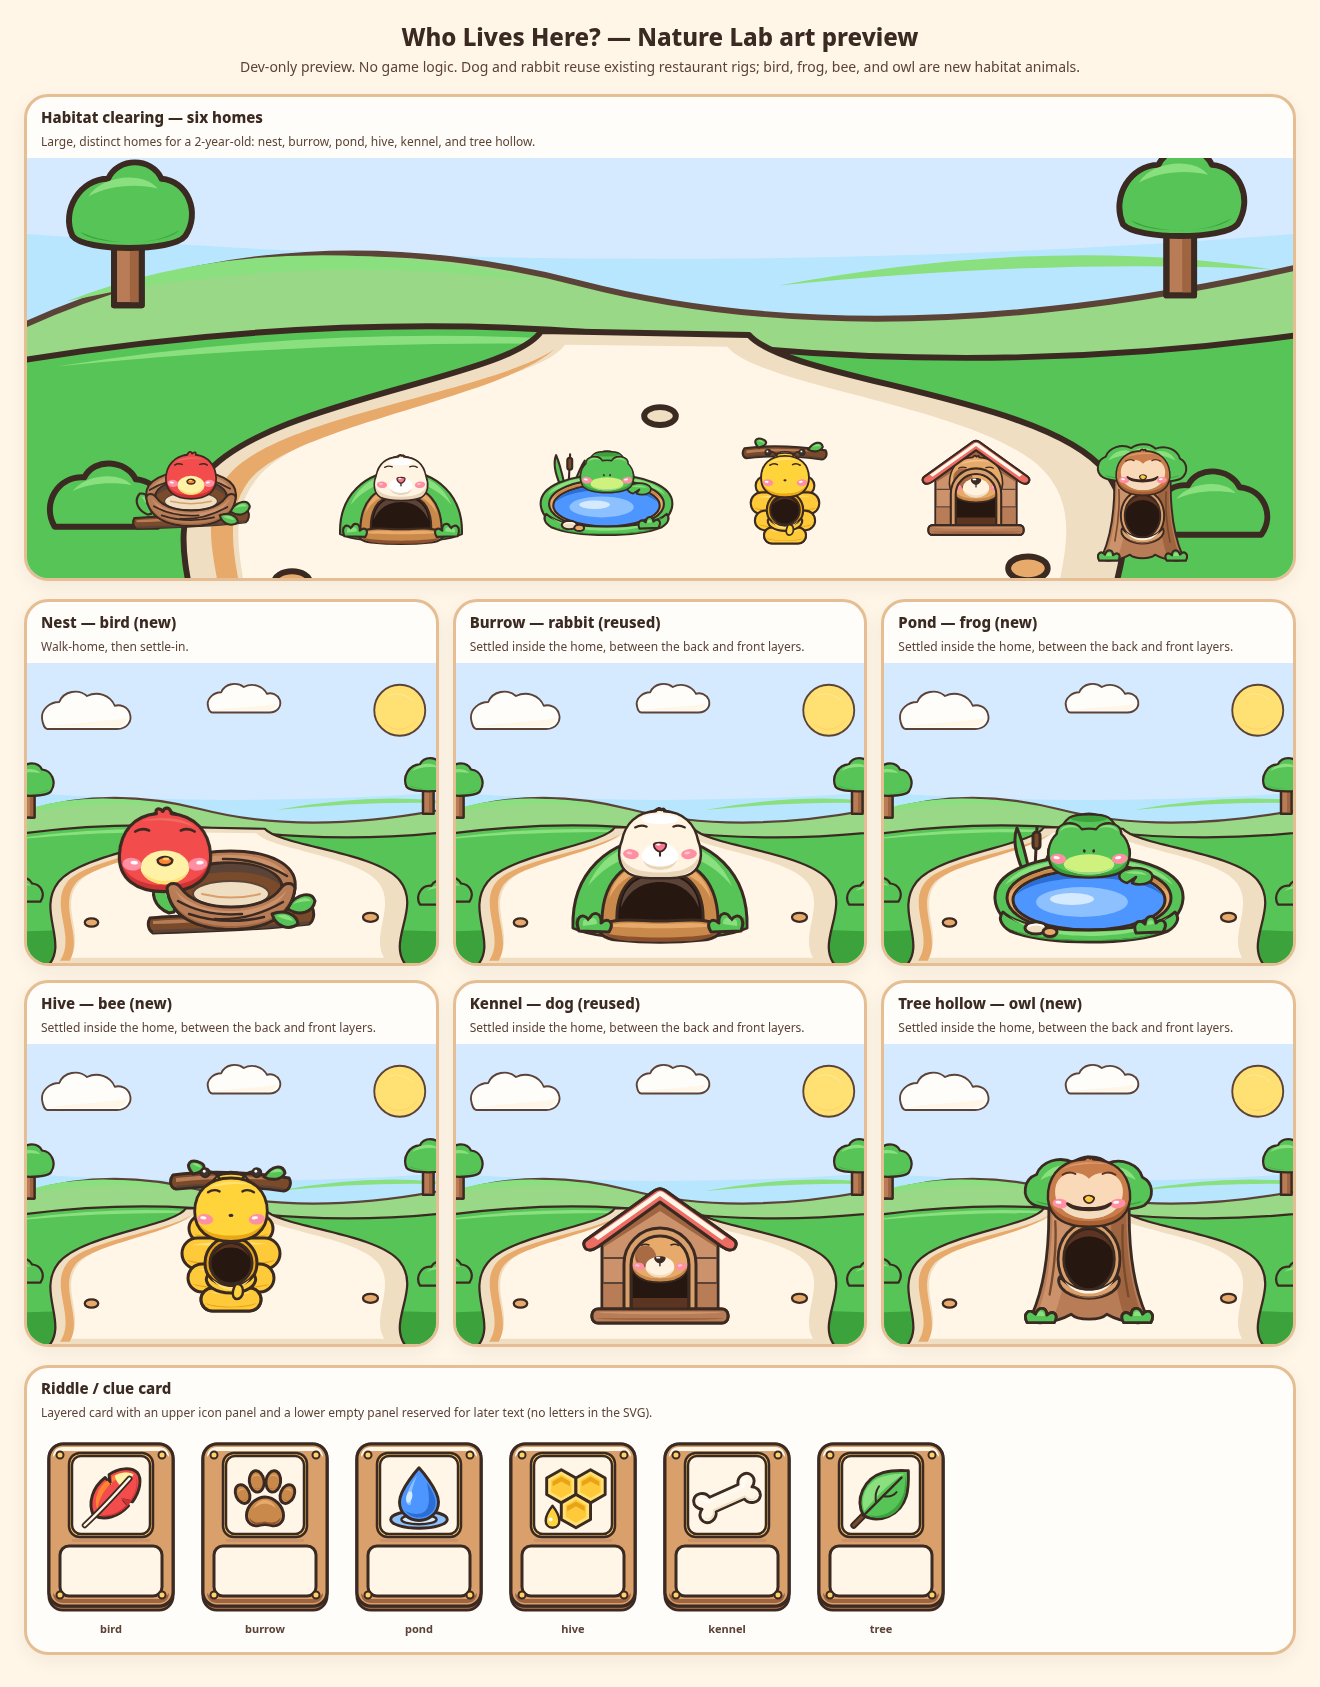
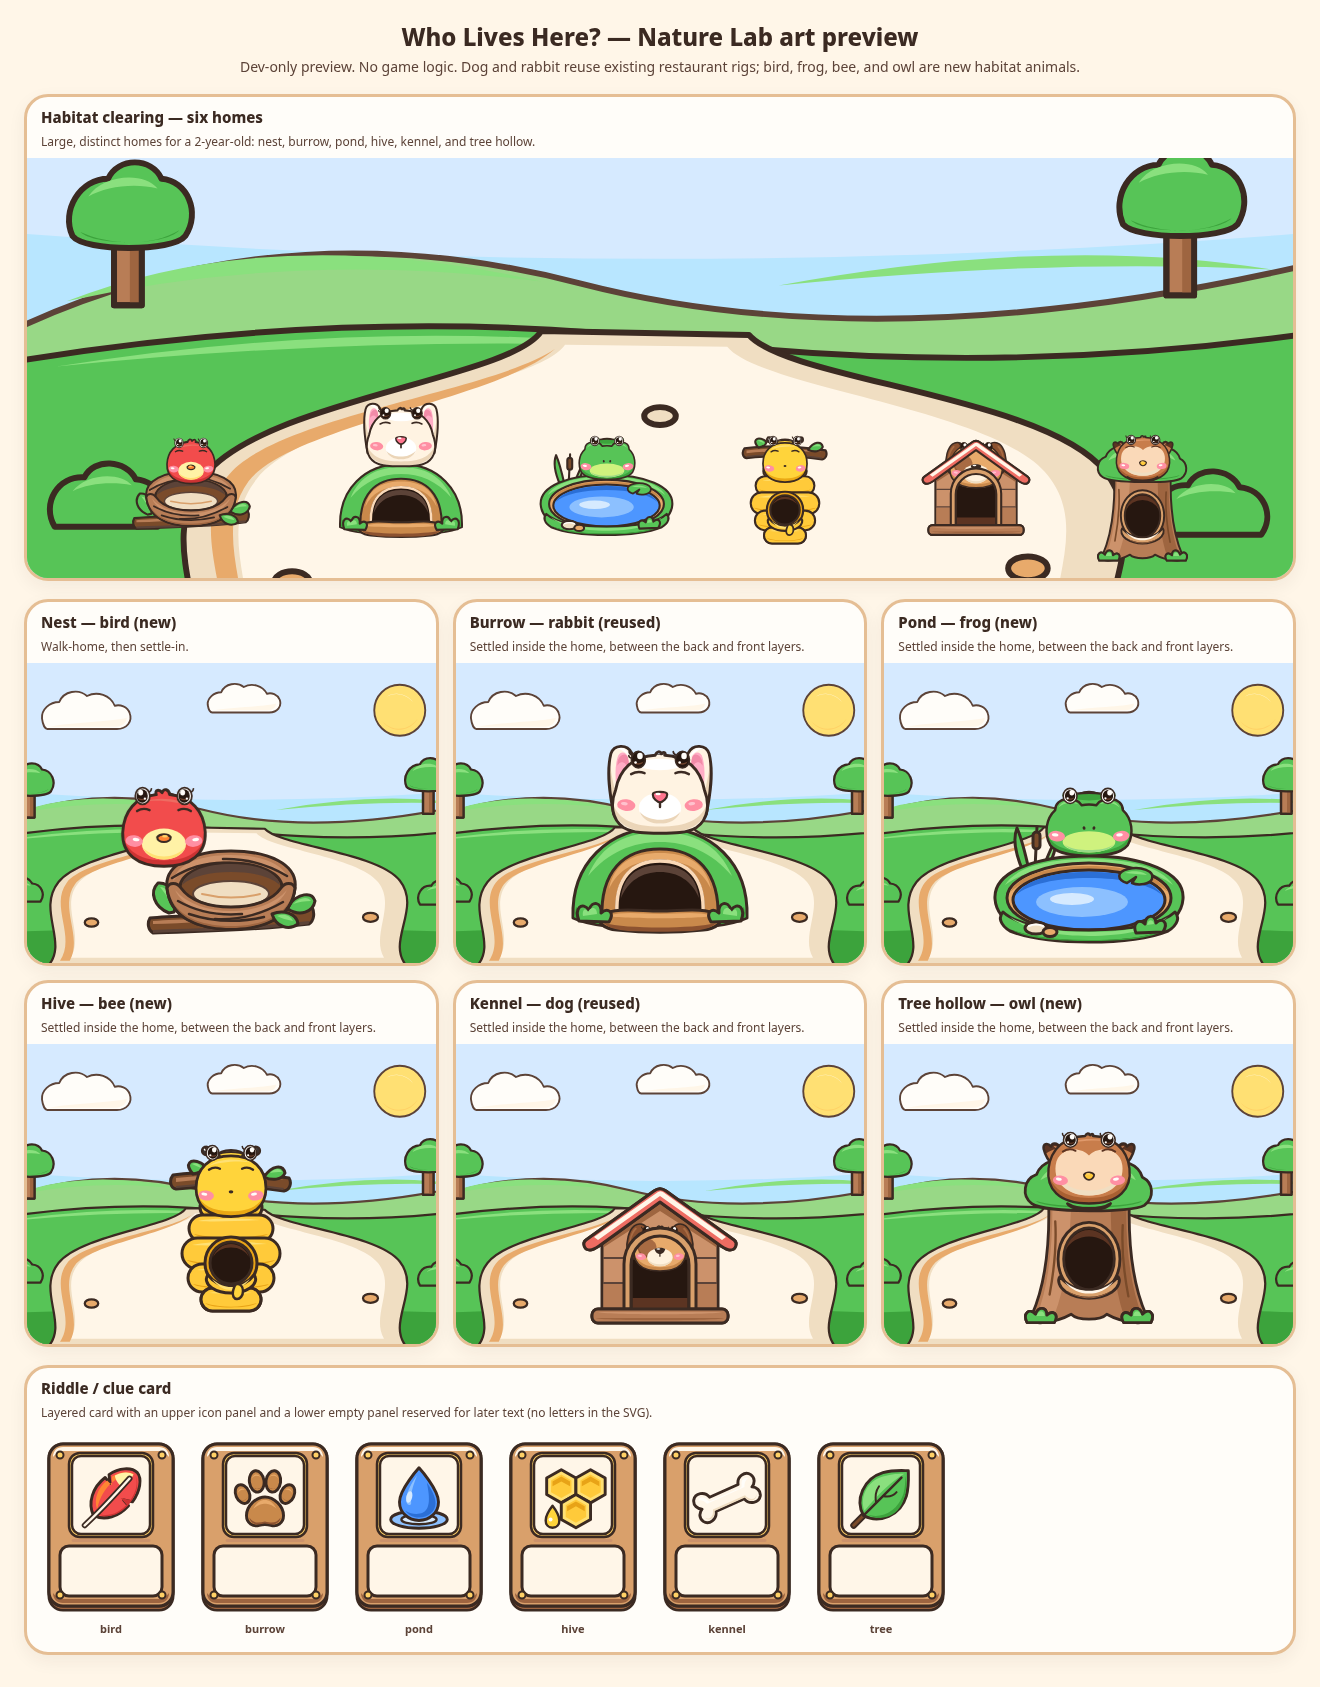
fix(art): make burrow rabbit recognizable and keep train passengers large
The homes preview now composites ear and eye layers, and the rabbit peeks
from the burrow with a pale opening lip for contrast. Picnic Train no longer
shrinks a 10-seat consist to fit; trainLayout.ts recommends a minimum
passenger height and a panning camera, and the preview uses a tablet-width
scrolling viewport.

diff --git a/tools/art-preview/train.html b/tools/art-preview/train.html
@@ -44,6 +44,26 @@
       70% { left: 48%; bottom: 28%; transform: scale(0.7) rotate(0); }
       100% { left: 48%; bottom: 22%; transform: scale(0.7); }
     }
+    /* 10-seat (and any long consist): pan at tap-friendly scale, do not shrink. Mirrors src/anim/trainLayout.ts */
+    /* Tablet-portrait-width viewport so the long consist must pan (mirrors planTrainView). */
+    .stage-pan { height: 400px; width: 100%; max-width: 760px; margin-inline: auto; }
+    .pan-viewport {
+      position: absolute;
+      inset: 0;
+      overflow-x: auto;
+      overflow-y: hidden;
+      -webkit-overflow-scrolling: touch;
+    }
+    .pan-world { position: relative; height: 100%; }
+    .pan-world img.bg {
+      position: absolute; inset: 0; width: 100%; height: 100%;
+      object-fit: cover; object-position: center 72%;
+    }
+    .pan-viewport .train { left: 16px; }
+    .edge-fade {
+      position: absolute; top: 0; bottom: 18px; width: 56px; z-index: 8; pointer-events: none;
+    }
+    .edge-fade.right { right: 0; background: linear-gradient(to right, transparent, #FFF6E8); }
     .strip { display: flex; flex-wrap: wrap; gap: 12px; padding: 8px 14px 16px; align-items: flex-end; background: #FFF6E8; }
     .swatch { text-align: center; width: 100px; }
     .swatch img { width: 96px; height: 80px; object-fit: contain; display: block; margin: 0 auto; }
@@ -61,17 +81,15 @@
       <div class="note">Two 2-seat cars plus a 1-seat car. One seat shows a “how many missing?” outline; an apple is being handed out.</div>
       <div class="stage tall state-chug" id="scene-five"></div>
     </div>
-    <div class="row">
-      <div class="card">
-        <div class="label">Two seats (age 2)</div>
-        <div class="note">Engine + one 2-seat car. The train arrives from the right.</div>
-        <div class="stage state-arrive" id="scene-two"></div>
-      </div>
-      <div class="card">
-        <div class="label">Ten seats (composed)</div>
-        <div class="note">Engine + four 2-seat cars + one 1-seat car. Outlines mark empty seats.</div>
-        <div class="stage" id="scene-ten"></div>
-      </div>
+    <div class="card">
+      <div class="label">Two seats (age 2)</div>
+      <div class="note">Engine + one 2-seat car. The train arrives from the right.</div>
+      <div class="stage state-arrive" id="scene-two"></div>
+    </div>
+    <div class="card">
+      <div class="label">Ten seats — panning view at tap-friendly scale</div>
+      <div class="note">The consist is not shrunk to fit. This card uses a 760px tablet-portrait viewport: passengers stay as large as in the five-seat scene, and the rest of the train is reached by panning (layout helper: src/anim/trainLayout.ts). Scroll sideways to see the remaining cars.</div>
+      <div class="stage stage-pan" id="scene-ten"></div>
     </div>
     <div class="card">
       <div class="label">Modular pieces and helper outlines</div>
@@ -176,10 +194,32 @@
       train.className = 'train';
       addCar(train, 'engine');
       plan.cars.forEach((car) => addCar(train, car.type, car.seats));
-      if (plan.compact) train.style.transform = 'scale(0.62)';
-      if (plan.compact) train.style.transformOrigin = 'left bottom';
       if (plan.left) train.style.left = plan.left;
-      stage.appendChild(train);
+
+      if (plan.pan) {
+        const viewport = document.createElement('div');
+        viewport.className = 'pan-viewport';
+        const world = document.createElement('div');
+        world.className = 'pan-world';
+        // Same math as trainContentWidth(10, 1) in src/anim/trainLayout.ts
+        const ENGINE_W = 180, CAR_W = 160, SINGLE_W = 100;
+        let contentW = ENGINE_W + 16;
+        plan.cars.forEach((car) => { contentW += car.type === 'single' ? SINGLE_W : CAR_W; });
+        world.style.width = Math.max(contentW + 40, stage.clientWidth || 1200) + 'px';
+        const bg = stage.querySelector('img.bg');
+        if (bg) world.appendChild(bg);
+        world.appendChild(train);
+        viewport.appendChild(world);
+        stage.appendChild(viewport);
+        const fade = document.createElement('div');
+        fade.className = 'edge-fade right';
+        stage.appendChild(fade);
+        // Camera starts at the engine so the screenshot shows large passengers;
+        // the rest of the consist is reached by panning (offset may be set).
+        viewport.scrollLeft = plan.scrollLeft || 0;
+      } else {
+        stage.appendChild(train);
+      }
     }
 
     fillScene(document.getElementById('scene-five'), {
@@ -198,8 +238,7 @@
       ],
     });
     fillScene(document.getElementById('scene-ten'), {
-      compact: true,
-      left: '2%',
+      pan: true,
       cars: [
         { type: 'car', seats: [{ kind: 'bear' }, { kind: 'rabbit' }] },
         { type: 'car', seats: [{ kind: 'cat' }, { kind: 'dog' }] },

diff --git a/tools/art-preview/homes.html b/tools/art-preview/homes.html
@@ -21,11 +21,18 @@
     .home img { position: absolute; left: 0; top: 0; width: 100%; height: 100%; display: block; }
     .home .back { z-index: 1; }
     .home .front { z-index: 4; }
-    .animal { position: absolute; left: 50%; width: 110px; height: 132px; transform: translateX(-50%); z-index: 3; transform-origin: 50% 100%; }
-    .animal img { position: absolute; left: 0; width: 100%; object-fit: contain; }
-    .animal img.body { bottom: 0; height: 58%; z-index: 1; }
-    .animal img.face { bottom: 28%; height: 72%; z-index: 2; }
-    .animal.settled { bottom: 28px; transform: translateX(-50%) scale(0.86); }
+    .animal { position: absolute; left: 50%; width: 110px; height: 150px; transform: translateX(-50%); z-index: 3; transform-origin: 50% 100%; overflow: visible; }
+    .animal img { position: absolute; object-fit: contain; }
+    .animal img.ear { width: 34%; height: 52%; top: -6%; z-index: 1; }
+    .animal img.ear-left { left: 0; }
+    .animal img.ear-right { right: 0; left: auto; }
+    .animal img.body { left: 0; width: 100%; bottom: 0; height: 48%; z-index: 2; }
+    .animal img.face { left: 0; width: 100%; bottom: 24%; height: 58%; z-index: 3; }
+    .animal img.eye { width: 18%; height: 15%; bottom: 50%; z-index: 4; }
+    .animal img.eye-left { left: 22%; }
+    .animal img.eye-right { right: 22%; left: auto; }
+    .animal.settled { bottom: 28px; transform: translateX(-50%) scale(0.9); }
+    .animal.peek { width: 128px; height: 170px; }
     .animal.walking { bottom: 20px; left: 18%; animation: walkHome 1.8s ease-in-out infinite; }
     .state-walk .animal.walking { animation: walkHome 1.8s ease-in-out infinite; }
     @keyframes walkHome {
@@ -64,7 +71,7 @@
     const ART = '../../public/art';
     const HOMES = [
       { id: 'nest', kind: 'bird', label: 'Nest — bird (new)', w: 180, h: 140, walk: true, settlePct: 0.22 },
-      { id: 'burrow', kind: 'rabbit', label: 'Burrow — rabbit (reused)', w: 200, h: 140, settlePct: 0.28 },
+      { id: 'burrow', kind: 'rabbit', label: 'Burrow — rabbit (reused)', w: 200, h: 160, settlePct: 0.34, peek: true },
       { id: 'pond', kind: 'frog', label: 'Pond — frog (new)', w: 210, h: 140, settlePct: 0.24 },
       { id: 'hive', kind: 'bee', label: 'Hive — bee (new)', w: 140, h: 180, settlePct: 0.32 },
       { id: 'kennel', kind: 'dog', label: 'Kennel — dog (reused)', w: 180, h: 160, settlePct: 0.16, animalH: 0.72 },
@@ -75,19 +82,28 @@
       ['honeycomb', 'hive'], ['bone', 'kennel'], ['leaf', 'tree'],
     ];
 
+    const EAR_KINDS = new Set(['rabbit', 'dog', 'cat', 'bear', 'panda', 'lion', 'owl']);
+
+    function addImg(parent, className, src, alt) {
+      const img = document.createElement('img');
+      img.className = className;
+      img.src = src;
+      img.alt = alt || '';
+      parent.appendChild(img);
+      return img;
+    }
+
     function animalEl(kind, cls) {
       const el = document.createElement('div');
       el.className = 'animal ' + (cls || '');
-      const body = document.createElement('img');
-      body.className = 'body';
-      body.src = `${ART}/animals/${kind}/body.svg`;
-      body.alt = '';
-      const head = document.createElement('img');
-      head.className = 'face';
-      head.src = `${ART}/animals/${kind}/head.svg`;
-      head.alt = kind;
-      el.appendChild(body);
-      el.appendChild(head);
+      if (EAR_KINDS.has(kind)) {
+        addImg(el, 'ear ear-left', `${ART}/animals/${kind}/ear-left.svg`, '');
+        addImg(el, 'ear ear-right', `${ART}/animals/${kind}/ear-right.svg`, '');
+      }
+      addImg(el, 'body', `${ART}/animals/${kind}/body.svg`, '');
+      addImg(el, 'face', `${ART}/animals/${kind}/head.svg`, kind);
+      addImg(el, 'eye eye-left', `${ART}/animals/${kind}/eye-open.svg`, '');
+      addImg(el, 'eye eye-right', `${ART}/animals/${kind}/eye-open.svg`, '');
       return el;
     }
 
@@ -107,7 +123,7 @@
       el.appendChild(back);
       if (mode === 'walk' && spec.walk) el.appendChild(animalEl(spec.kind, 'walking'));
       else if (mode === 'settled' || mode === 'all') {
-        const a = animalEl(spec.kind, 'settled');
+        const a = animalEl(spec.kind, 'settled' + (spec.peek ? ' peek' : ''));
         if (spec.settlePct != null) a.style.bottom = (spec.settlePct * 100) + '%';
         if (spec.animalH) {
           a.style.height = (spec.animalH * 132) + 'px';
@@ -135,7 +151,10 @@
         h.style.bottom = places[i][1];
         // scale animals down in the hero
         const a = h.querySelector('.animal');
-        if (a) { a.style.width = '72px'; a.style.height = '86px'; }
+        if (a) {
+          if (spec.peek) { a.style.width = '92px'; a.style.height = '122px'; }
+          else { a.style.width = '72px'; a.style.height = '96px'; }
+        }
         stage.appendChild(h);
       });
     }

diff --git a/src/anim/trainLayout.ts b/src/anim/trainLayout.ts
@@ -1,0 +1,106 @@
+/**
+ * Picnic Train layout recommendation (no game logic).
+ *
+ * Do not shrink a 2–10 seat train to fit the entire consist in one tablet
+ * viewport. That makes passengers too small to tap. Keep a minimum passenger
+ * display height and pan (or scroll) a camera along the train instead.
+ *
+ * Preview pieces at scale 1 use TRAIN_LAYOUT.engineWidth / carWidth /
+ * carSingleWidth and pieceHeight. `planTrainView` returns the scale and
+ * camera offset a scene or preview should use.
+ */
+export const TRAIN_LAYOUT = {
+  /** Minimum on-screen height of a seated passenger, in CSS / game pixels. */
+  minPassengerHeight: 112,
+  engineWidth: 180,
+  carWidth: 160,
+  carSingleWidth: 100,
+  pieceHeight: 130,
+  /**
+   * Passenger sprite height inside a car at layout scale 1 (the seat is 55%
+   * of the 130 px piece, and the passenger fills 90% of that seat).
+   */
+  passengerHeightAtScale1: 64,
+} as const;
+
+export type TrainCarType = 'car' | 'single';
+
+export interface TrainCarPlan {
+  type: TrainCarType;
+  /** 2 for a standard car, 1 for the short car. */
+  seats: number;
+}
+
+export interface TrainViewPlan {
+  /** Layout scale, never below what TRAIN_LAYOUT.minPassengerHeight requires. */
+  scale: number;
+  contentWidth: number;
+  contentHeight: number;
+  viewportWidth: number;
+  /** Camera scroll in content pixels; 0 keeps the engine at the left edge. */
+  offsetX: number;
+  /** 0-based seat index the camera was asked to keep in view, if any. */
+  focusSeat: number;
+}
+
+/** Compose 2-seat and 1-seat cars so `seatCount` seats (2–10) can be laid out. */
+export function planTrainCars(seatCount: number): TrainCarPlan[] {
+  const n = Math.max(1, Math.round(seatCount));
+  const cars: TrainCarPlan[] = [];
+  let remaining = n;
+  while (remaining >= 2) {
+    cars.push({ type: 'car', seats: 2 });
+    remaining -= 2;
+  }
+  if (remaining === 1) cars.push({ type: 'single', seats: 1 });
+  return cars;
+}
+
+export function trainContentWidth(seatCount: number, scale = 1): number {
+  const cars = planTrainCars(seatCount);
+  let width = TRAIN_LAYOUT.engineWidth;
+  for (const car of cars) {
+    width += car.type === 'single' ? TRAIN_LAYOUT.carSingleWidth : TRAIN_LAYOUT.carWidth;
+  }
+  return width * scale;
+}
+
+/**
+ * Choose a scale that keeps passengers at least `minPassengerHeight` tall,
+ * then pan so `focusSeat` (default 0, the first passenger seat) stays in view.
+ * If the train already fits, offsetX is 0.
+ */
+export function planTrainView(opts: {
+  viewportWidth: number;
+  seatCount: number;
+  focusSeat?: number;
+  minPassengerHeight?: number;
+}): TrainViewPlan {
+  const minH = opts.minPassengerHeight ?? TRAIN_LAYOUT.minPassengerHeight;
+  const scale = Math.max(1, minH / TRAIN_LAYOUT.passengerHeightAtScale1);
+  const contentWidth = trainContentWidth(opts.seatCount, scale);
+  const contentHeight = TRAIN_LAYOUT.pieceHeight * scale;
+  const viewportWidth = Math.max(1, opts.viewportWidth);
+  const cars = planTrainCars(opts.seatCount);
+  const totalSeats = cars.reduce((n, c) => n + c.seats, 0);
+  const focusSeat = Math.max(0, Math.min(totalSeats - 1, opts.focusSeat ?? 0));
+
+  // Walk from the engine's right edge to the focused seat's approximate center.
+  let x = TRAIN_LAYOUT.engineWidth * scale;
+  let seen = 0;
+  for (const car of cars) {
+    const w = (car.type === 'single' ? TRAIN_LAYOUT.carSingleWidth : TRAIN_LAYOUT.carWidth) * scale;
+    for (let i = 0; i < car.seats; i++) {
+      if (seen === focusSeat) {
+        const seatCenter = x + ((i + 0.5) / car.seats) * w;
+        const raw = seatCenter - viewportWidth / 2;
+        const max = Math.max(0, contentWidth - viewportWidth);
+        const offsetX = Math.max(0, Math.min(max, raw));
+        return { scale, contentWidth, contentHeight, viewportWidth, offsetX, focusSeat };
+      }
+      seen += 1;
+    }
+    x += w;
+  }
+  return { scale, contentWidth, contentHeight, viewportWidth, offsetX: 0, focusSeat };
+}

diff --git a/tests/unit/trainLayout.test.ts b/tests/unit/trainLayout.test.ts
@@ -1,0 +1,33 @@
+import { describe, it, expect } from 'vitest';
+import { TRAIN_LAYOUT, planTrainCars, planTrainView, trainContentWidth } from '../../src/anim/trainLayout';
+
+describe('Picnic Train layout helper', () => {
+  it('composes 2–10 seats from 2-seat and 1-seat cars', () => {
+    expect(planTrainCars(2)).toEqual([{ type: 'car', seats: 2 }]);
+    expect(planTrainCars(5)).toEqual([
+      { type: 'car', seats: 2 },
+      { type: 'car', seats: 2 },
+      { type: 'single', seats: 1 },
+    ]);
+    const ten = planTrainCars(10);
+    expect(ten.reduce((n, c) => n + c.seats, 0)).toBe(10);
+    expect(ten.filter((c) => c.type === 'single')).toHaveLength(0);
+  });
+
+  it('never scales passengers below the minimum tap-friendly height', () => {
+    const view = planTrainView({ viewportWidth: 800, seatCount: 10 });
+    expect(view.scale * TRAIN_LAYOUT.passengerHeightAtScale1).toBeGreaterThanOrEqual(TRAIN_LAYOUT.minPassengerHeight);
+    expect(view.scale).toBeGreaterThanOrEqual(1);
+    expect(view.contentWidth).toBe(trainContentWidth(10, view.scale));
+  });
+
+  it('pans the camera to keep a focused seat in view instead of shrinking the train', () => {
+    const start = planTrainView({ viewportWidth: 600, seatCount: 10, focusSeat: 0 });
+    const mid = planTrainView({ viewportWidth: 600, seatCount: 10, focusSeat: 6 });
+    expect(start.scale).toBe(mid.scale);
+    expect(mid.offsetX).toBeGreaterThan(start.offsetX);
+    expect(mid.offsetX).toBeLessThanOrEqual(Math.max(0, mid.contentWidth - 600));
+    const fits = planTrainView({ viewportWidth: 4000, seatCount: 2, focusSeat: 0 });
+    expect(fits.offsetX).toBe(0);
+  });
+});

diff --git a/src/anim/index.ts b/src/anim/index.ts
@@ -16,3 +16,4 @@ export { registerProjectArt } from './registerArt';
 export * from './transitionTiming';
 export * from './worldMotion';
 export * from './homesTrainMotion';
+export * from './trainLayout';
